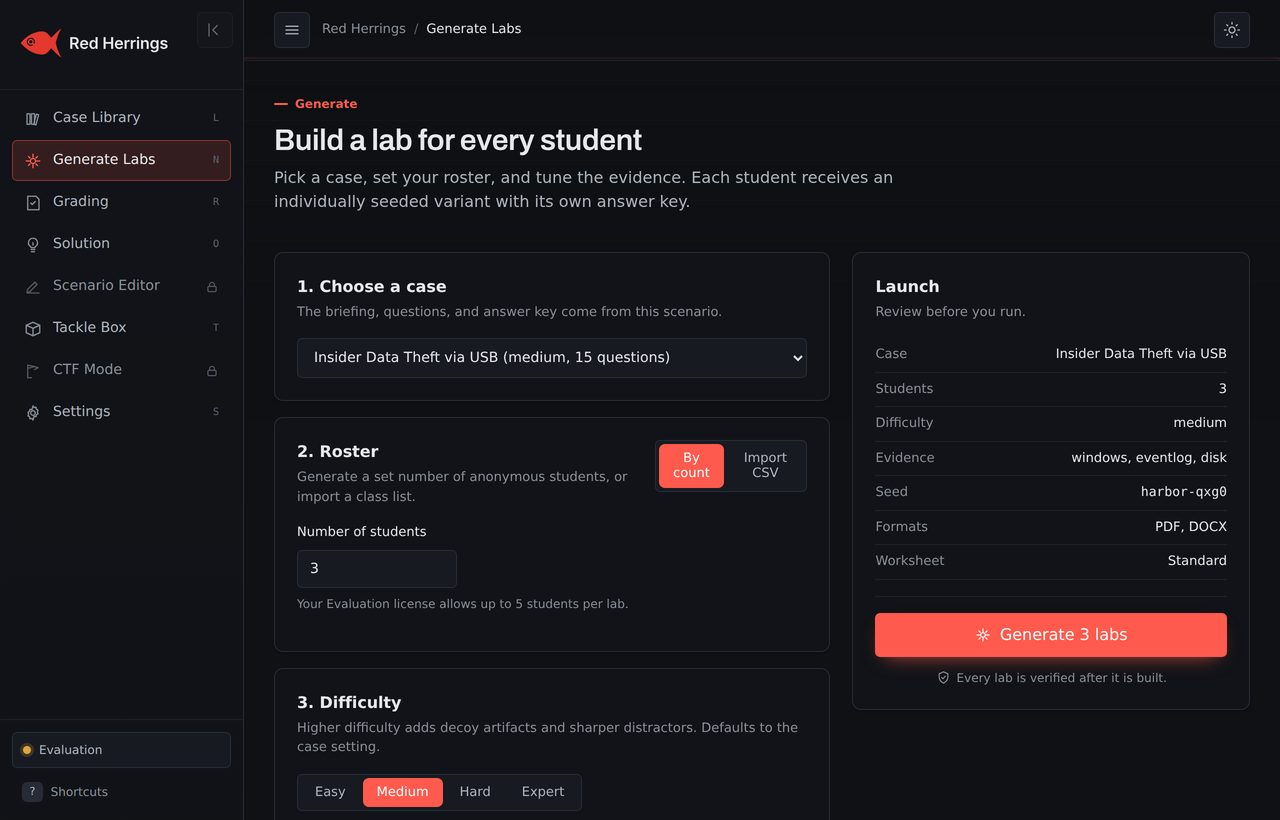
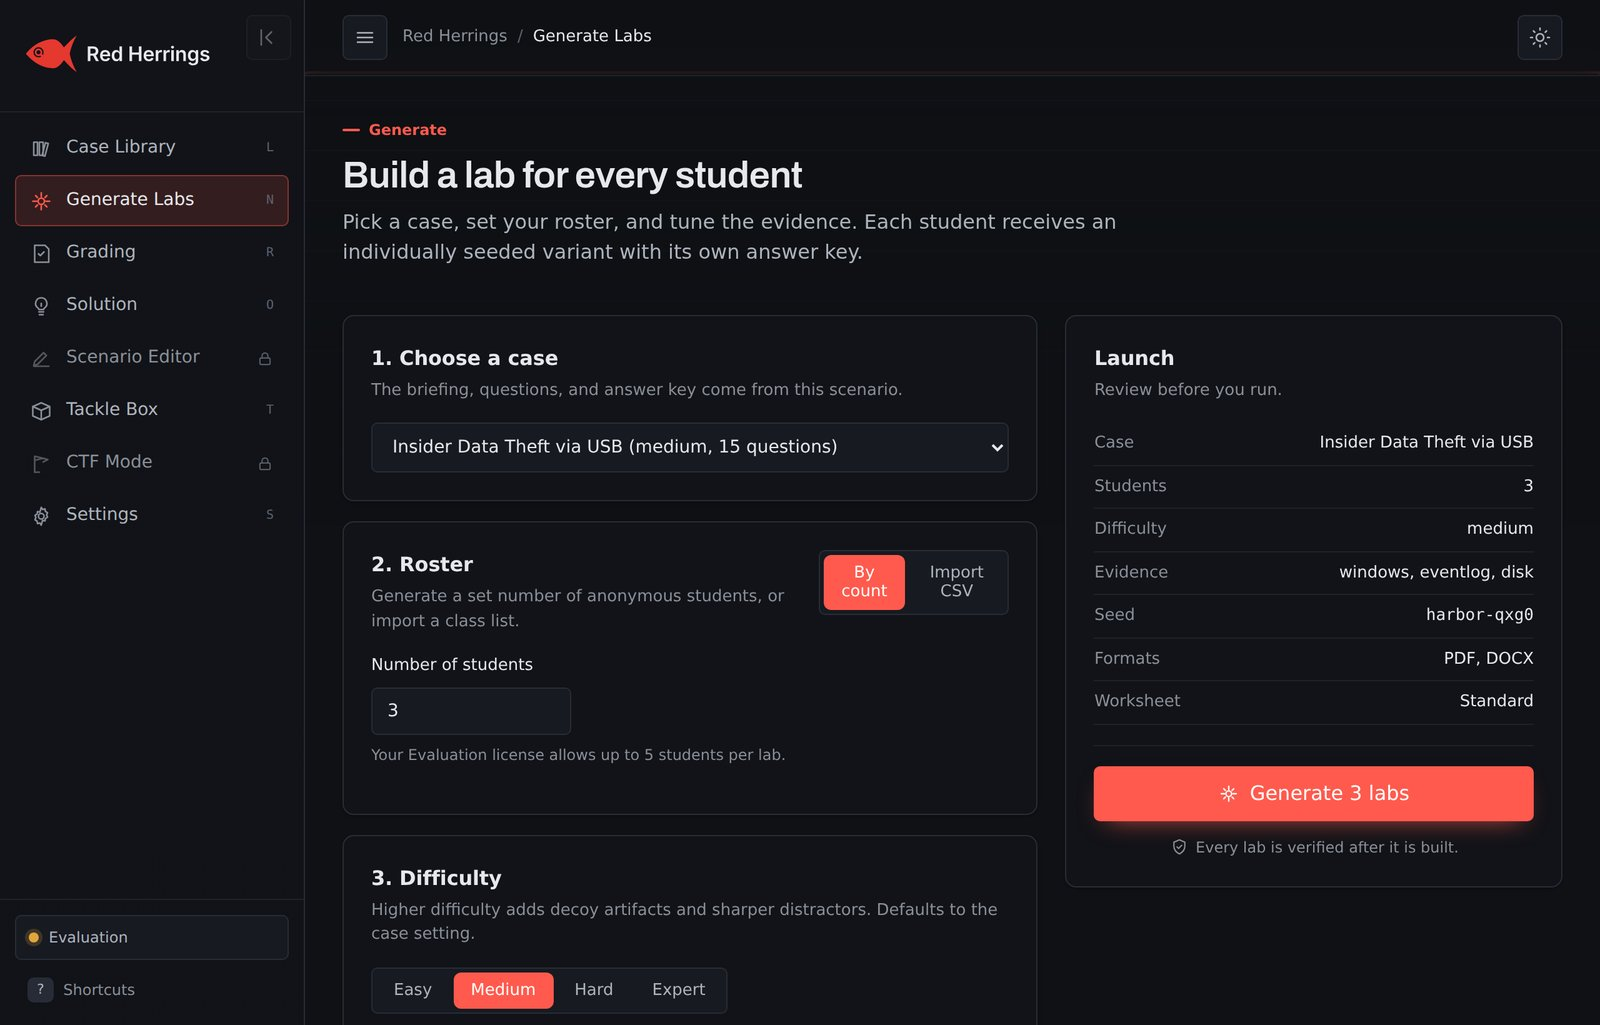
site: click-to-enlarge lightbox for screenshots
Screenshots on the How it works, Help and Tools pages now open full size in
a lightbox (native <dialog>): click or press Enter on an image, close with
the button, Escape, or a backdrop click. Regenerated the How it works
screenshots at higher resolution so they stay crisp when enlarged. The
lightbox is hidden in print.

diff --git a/lightbox.js b/lightbox.js
@@ -1,0 +1,41 @@
+/* Minimal, dependency-free lightbox using the native <dialog> element.
+   Any image inside a .shot, or any img[data-zoomable], becomes clickable and
+   opens full size. Esc and a backdrop click close it. */
+(function () {
+  function init() {
+    var dlg = document.createElement("dialog");
+    dlg.className = "lightbox";
+    dlg.setAttribute("aria-label", "Enlarged screenshot");
+    dlg.innerHTML =
+      '<button type="button" class="lb-close" aria-label="Close">&times;</button>' +
+      '<img alt="">';
+    document.body.appendChild(dlg);
+    var big = dlg.querySelector("img");
+
+    var imgs = document.querySelectorAll(".shot img, img[data-zoomable]");
+    imgs.forEach(function (t) {
+      // Skip a poster image that lives inside a <video> fallback.
+      if (t.closest("video")) return;
+      t.classList.add("zoomable");
+      t.setAttribute("role", "button");
+      t.setAttribute("tabindex", "0");
+      var open = function () {
+        big.src = t.currentSrc || t.src;
+        big.alt = t.alt || "";
+        if (typeof dlg.showModal === "function") dlg.showModal();
+        else window.open(big.src, "_blank");
+      };
+      t.addEventListener("click", open);
+      t.addEventListener("keydown", function (e) {
+        if (e.key === "Enter" || e.key === " ") { e.preventDefault(); open(); }
+      });
+    });
+
+    dlg.querySelector(".lb-close").addEventListener("click", function () { dlg.close(); });
+    // A click on the backdrop (outside the image) closes the dialog.
+    dlg.addEventListener("click", function (e) { if (e.target === dlg) dlg.close(); });
+  }
+
+  if (document.readyState === "loading") document.addEventListener("DOMContentLoaded", init);
+  else init();
+})();

diff --git a/site.css b/site.css
@@ -274,3 +274,14 @@ footer .fbottom{display:flex;justify-content:space-between;flex-wrap:wrap;gap:10
   ul, ol, p{ orphans:3; widows:3; }
   @page{ margin:16mm 14mm; }
 }
+
+/* ---- Lightbox (native <dialog>) ---- */
+.shot img.zoomable, img.zoomable{cursor:zoom-in}
+.mediarow .shot{transition:transform .15s ease, box-shadow .15s ease}
+.mediarow .shot:hover{transform:translateY(-2px);box-shadow:var(--shadow-lg),0 0 0 1px color-mix(in srgb,var(--accent) 22%,transparent)}
+dialog.lightbox{border:0;padding:0;background:transparent;max-width:96vw;max-height:96vh;overflow:visible;margin:auto}
+dialog.lightbox::backdrop{background:rgba(6,9,16,.85);backdrop-filter:blur(2px)}
+dialog.lightbox img{display:block;max-width:96vw;max-height:90vh;width:auto;height:auto;border-radius:10px;box-shadow:0 24px 80px rgba(0,0,0,.65)}
+dialog.lightbox .lb-close{position:fixed;top:16px;right:20px;width:42px;height:42px;border-radius:50%;border:0;background:rgba(255,255,255,.14);color:#fff;font-size:26px;line-height:1;cursor:pointer;display:flex;align-items:center;justify-content:center;transition:background .15s ease}
+dialog.lightbox .lb-close:hover{background:rgba(255,255,255,.28)}
+@media print{dialog.lightbox{display:none !important}}

diff --git a/help.html b/help.html
@@ -149,5 +149,6 @@
     </div>
   </div>
 </footer>
+<script src="lightbox.js" defer></script>
 </body>
 </html>

diff --git a/how.html b/how.html
@@ -149,5 +149,6 @@
     </div>
   </div>
 </footer>
+<script src="lightbox.js" defer></script>
 </body>
 </html>

diff --git a/tools.html b/tools.html
@@ -121,5 +121,6 @@
     </div>
   </div>
 </footer>
+<script src="lightbox.js" defer></script>
 </body>
 </html>
